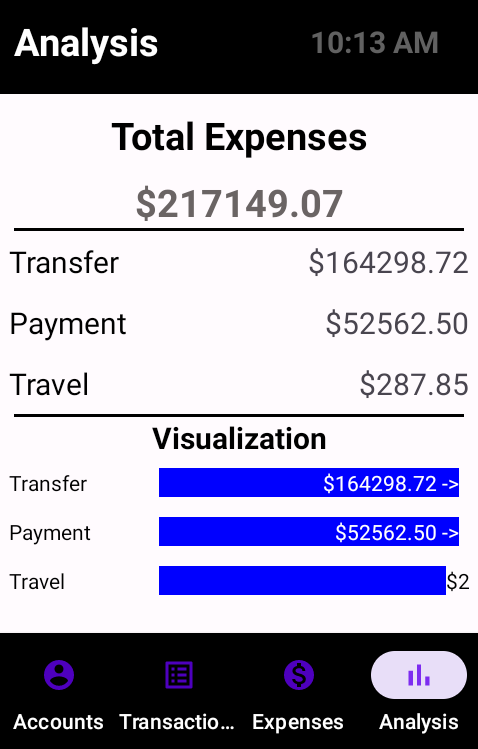
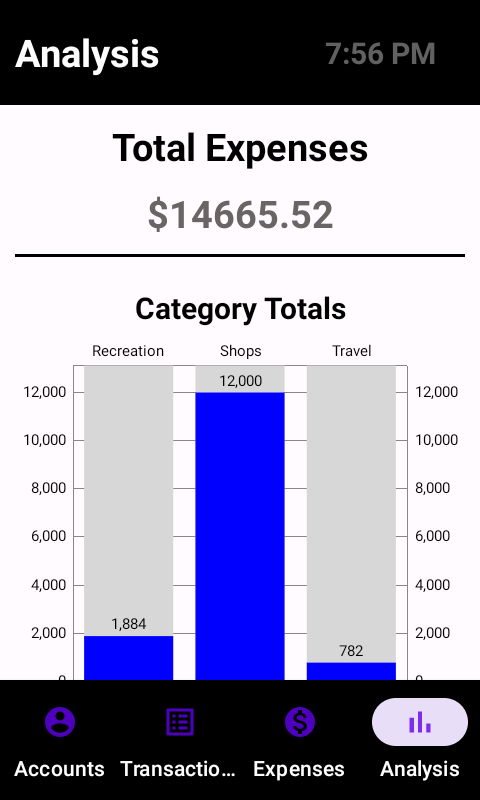
decided to use a graphing utility: MPAndroidChart. Made a new SQL query to be able to poll category totals for a given time frame. Used it with the charting utility to create bar charts for the last 23 months. Updated readme to credit charter and new screenshots.

diff --git a/app/src/main/java/com/example/aem/Analyze/AnalyzeFragment.kt b/app/src/main/java/com/example/aem/Analyze/AnalyzeFragment.kt
@@ -1,41 +1,73 @@
 package com.example.aem.Analyze
 
-import android.app.ActionBar
-import android.graphics.Color
 import android.os.Bundle
 import android.view.LayoutInflater
 import android.view.View
 import android.view.ViewGroup
 import android.widget.LinearLayout
 import android.widget.TextView
-import androidx.appcompat.widget.LinearLayoutCompat
 import androidx.fragment.app.Fragment
-import androidx.lifecycle.ViewModelProvider
 import com.example.aem.Expense.ExpenseViewModel
 import com.example.aem.R
 import com.example.aem.Transactions.TransactionEntity
 import com.example.aem.Transactions.TransactionViewModel
+import java.time.LocalDateTime
+import java.time.format.DateTimeFormatter
 
 class AnalyzeFragment(private val expenseVM: ExpenseViewModel, private val transVM : TransactionViewModel) : Fragment() {
     override fun onCreateView(inflater: LayoutInflater, container: ViewGroup?, savedInstanceState: Bundle?): View? {
         super.onCreate(savedInstanceState)
         val layoutView = inflater.inflate(R.layout.analyze_fragment,container,false)
-        //
-        val allExpenses = expenseVM.allExpenses
+        val allExpenses = expenseVM.allExpensesAsTransactions
         if(allExpenses.isNotEmpty()) {
-            val transactions = arrayListOf<TransactionEntity>()
-            for(expense in allExpenses) {
-                transactions.add(transVM.getbyTransactionId(expense.tranId.toString()))
-            }
-            //
-            val totalsComponent = TotalsComponent(layoutView)
-            val map = totalsComponent.createMapping(transactions)
-            totalsComponent.applyViewsToLayout()
-            //
-            val barGraphLayout = layoutView.findViewById<LinearLayout>(R.id.bargraph_linearlayout)
-            val barChart = BarChart(map,layoutView.context,resources.displayMetrics.widthPixels)
-            barGraphLayout.addView(barChart.createGraph())
+            displayTotalTextView(layoutView,allExpenses)
+            displayCategoryTotalChart(layoutView)
+            displayMonthlyCharts(layoutView)
         }
         return layoutView
+    }
+
+    private fun displayTotalTextView(layoutView: View,allExpenses:List<TransactionEntity>) {
+        val totalTextView = layoutView.findViewById<TextView>(R.id.total_expense_textview)
+        val totText = "$${"%.2f".format(TotalsComponent().getTotal(allExpenses))}"
+        totalTextView.text = totText
+    }
+
+    private fun displayCategoryTotalChart(layoutView: View) {
+        val categoryTotal = transVM.entireListCategoryTotals
+        val values = arrayListOf<Float>()
+        val labels = arrayListOf<String>()
+        for(category in categoryTotal) {
+            values.add(category.amount.toFloat())
+            labels.add(category.category.substringBefore(" "))
+        }
+        MakeBarChart(layoutView,R.id.chart1,values,labels,"Category Total",-1,"")
+    }
+
+    private fun displayMonthlyCharts(layoutView: View) {
+        val monthlyLayout = layoutView.findViewById<LinearLayout>(R.id.monthly_charts)
+        monthlyLayout.isScrollContainer = true
+        val formatter = DateTimeFormatter.ofPattern("yyyy-MM-dd")
+        for(i in 0..23) {
+            val current = LocalDateTime.now().minusMonths(i.toLong())
+            val currentMinusThirty = current.minusDays(30)
+            // relevant strings for bar chart setup
+            val currentMonth = current.month.toString()
+            val currentYear = current.year
+            val barTitle = "$currentMonth $currentYear"
+            // parameters for sql query
+            val end = current.format(formatter)
+            val start = currentMinusThirty.format(formatter)
+            // FORMAT: YYYY-MM-DD
+            val categories = transVM.getCategoryTotalsInTimeFrame(start,end)
+            //
+            val values = arrayListOf<Float>()
+            val labels = arrayListOf<String>()
+            for(cat in categories) {
+                values.add(cat.amount.toFloat())
+                labels.add(cat.category)
+            }
+            MakeBarChart(monthlyLayout,-1,values,labels,"Category Total",resources.displayMetrics.widthPixels,barTitle)
+        }
     }
 }

diff --git a/app/src/main/java/com/example/aem/Analyze/MakeBarChart.kt b/app/src/main/java/com/example/aem/Analyze/MakeBarChart.kt
@@ -1,0 +1,102 @@
+package com.example.aem.Analyze
+
+import android.graphics.Color
+import android.view.View
+import android.widget.LinearLayout
+import android.widget.TextView
+import com.example.aem.R
+import com.github.mikephil.charting.charts.BarChart
+import com.github.mikephil.charting.components.Legend
+import com.github.mikephil.charting.data.BarData
+import com.github.mikephil.charting.data.BarDataSet
+import com.github.mikephil.charting.data.BarEntry
+import com.github.mikephil.charting.formatter.IndexAxisValueFormatter
+
+class MakeBarChart(
+    private val layoutView: View,
+    private val chartId: Int,
+    private val values: List<Float>,
+    private val labels: List<String>,
+    private val legendLabel: String,
+    private val width: Int,
+    private val chartTitle: String
+) {
+    private var barChart: BarChart = if (chartId == -1) {
+        BarChart(layoutView.context)
+    } else {
+        layoutView.findViewById(chartId)
+    }
+    private var legend = barChart.legend
+
+    init {
+        configureBarChart()
+        configureLegend()
+        applyData()
+    }
+
+    private fun configureBarChart() {
+        barChart.setDrawBarShadow(true)
+        barChart.setDrawValueAboveBar(true)
+        barChart.description.isEnabled = false
+        barChart.setMaxVisibleValueCount(60)
+        barChart.setPinchZoom(false)
+        barChart.setDrawGridBackground(false)
+    }
+
+    private fun configureLegend() {
+        legend.verticalAlignment = Legend.LegendVerticalAlignment.BOTTOM
+        legend.horizontalAlignment = Legend.LegendHorizontalAlignment.LEFT
+        legend.orientation = Legend.LegendOrientation.HORIZONTAL
+        legend.setDrawInside(false)
+        legend.form = Legend.LegendForm.SQUARE
+        legend.formSize = 9f
+        legend.textSize = 11f
+        legend.xEntrySpace = 4f
+    }
+
+    private fun applyData() {
+        val barEntries = arrayListOf<BarEntry>()
+        var i = 0f
+        for (v in values) {
+            barEntries.add(BarEntry(i, v))
+            i++
+        }
+        //
+        val barDataSet = BarDataSet(barEntries, legendLabel)
+        barDataSet.color = Color.BLUE
+        barDataSet.setDrawIcons(false)
+        val barData = BarData(barDataSet)
+        barData.setValueTextSize(10f)
+        barData.barWidth = 0.8f
+        //
+        barChart.xAxis.labelCount = labels.size
+        barChart.xAxis.valueFormatter = IndexAxisValueFormatter(labels)
+        barChart.data = barData
+        if (chartId == -1) {
+            val linView = LinearLayout(layoutView.context)
+            linView.orientation = LinearLayout.VERTICAL
+            linView.layoutParams = LinearLayout.LayoutParams(
+                width,
+                LinearLayout.LayoutParams.MATCH_PARENT
+            )
+            //
+            barChart.layoutParams = LinearLayout.LayoutParams(
+                width,
+                LinearLayout.LayoutParams.MATCH_PARENT
+            )
+            //
+            val title = TextView(layoutView.context)
+            title.layoutParams = LinearLayout.LayoutParams(
+                LinearLayout.LayoutParams.MATCH_PARENT,
+                LinearLayout.LayoutParams.WRAP_CONTENT
+            )
+            title.textAlignment = TextView.TEXT_ALIGNMENT_CENTER
+            title.text = chartTitle
+            //
+            linView.addView(title)
+            linView.addView(barChart)
+            val lin = (layoutView as LinearLayout)
+            lin.addView(linView)
+        }
+    }
+}

diff --git a/app/src/main/java/com/example/aem/Analyze/TotalsComponent.kt b/app/src/main/java/com/example/aem/Analyze/TotalsComponent.kt
@@ -8,57 +8,12 @@ import androidx.appcompat.widget.LinearLayoutCompat
 import com.example.aem.R
 import com.example.aem.Transactions.TransactionEntity
 
-class TotalsComponent(private val layoutView : View) {
-    private var totalsMapping = mutableMapOf<String,Double>()
-    private var total = 0.0
-
-    fun createMapping(list : List<TransactionEntity>) : Map<String,Double> {
+class TotalsComponent() {
+    fun getTotal(list : List<TransactionEntity>) : Double {
+        var total = 0.0
         for(transaction  in list) {
             total += transaction.amount
-            if(totalsMapping.containsKey(transaction.category)){
-                totalsMapping[transaction.category!!] = transaction.amount + totalsMapping[transaction.category!!]!!
-            } else {
-                totalsMapping[transaction.category!!] = transaction.amount
-            }
         }
-        return totalsMapping
-    }
-
-    fun applyViewsToLayout() {
-        val totalTextView = layoutView.findViewById<TextView>(R.id.total_expense_textview)
-        val totText = "$${"%.2f".format(total)}"
-        totalTextView.text = totText
-        //
-        val categoryTotalLayout = layoutView.findViewById<LinearLayout>(R.id.category_totals_linearlayout)
-        for(key in totalsMapping.keys) {
-            val linearLayout = LinearLayout(layoutView.context)
-            linearLayout.orientation = LinearLayout.HORIZONTAL
-            val params = LinearLayout.LayoutParams(
-                LinearLayoutCompat.LayoutParams.MATCH_PARENT,
-                LinearLayoutCompat.LayoutParams.WRAP_CONTENT
-            )
-            params.setMargins(10,10,10,10)
-            linearLayout.layoutParams = params
-            //
-            val textViewLayoutParams = LinearLayout.LayoutParams(
-                0,
-                LinearLayoutCompat.LayoutParams.WRAP_CONTENT
-            )
-            textViewLayoutParams.weight = 0.5f
-            val categoryTextView = TextView(layoutView.context)
-            categoryTextView.setTextColor(Color.BLACK)
-            categoryTextView.text = key
-            categoryTextView.textSize = 20f
-            categoryTextView.layoutParams = textViewLayoutParams
-            val amountTextView = TextView(layoutView.context)
-            val amount = "$" + "%.2f".format(totalsMapping[key])
-            amountTextView.text = amount
-            amountTextView.textSize = 20f
-            amountTextView.layoutParams = textViewLayoutParams
-            amountTextView.textAlignment = View.TEXT_ALIGNMENT_TEXT_END
-            linearLayout.addView(categoryTextView)
-            linearLayout.addView(amountTextView)
-            categoryTotalLayout.addView(linearLayout)
-        }
+        return total
     }
 }

diff --git a/app/src/main/java/com/example/aem/Transactions/TransactionsDao.kt b/app/src/main/java/com/example/aem/Transactions/TransactionsDao.kt
@@ -19,9 +19,12 @@ interface TransactionsDao {
     @Query("SELECT category,SUM(amount) as 'amount' FROM transactions_table_aem WHERE item_id = :item_id GROUP BY category")
     fun getCategoryTotals(item_id: String) : List<CategoryTotal>
 
-    @Query("SELECT category,0 as 'amount' FROM transactions_table_aem INNER JOIN expense_table ON transactions_table_aem.tranId = expense_table.tranId GROUP BY category")
+    @Query("SELECT category,SUM(amount) as 'amount' FROM transactions_table_aem INNER JOIN expense_table ON transactions_table_aem.tranId = expense_table.tranId GROUP BY category")
     fun getEntireCategoryTotals() : List<CategoryTotal>
 
     @Query("SELECT * FROM transactions_table_aem WHERE (item_id = :item_id) AND (category = :category)")
     fun getTransactionsBasedOnCategoryAndItemId(item_id: String, category: String) : List<TransactionEntity>
+
+    @Query("SELECT  category, SUM(amount) as 'amount' FROM transactions_table_aem INNER JOIN expense_table ON transactions_table_aem.tranId = expense_table.tranId WHERE (date <= :end) AND (date >= :start) GROUP BY category")
+    fun getCategoryTotalsInATimeFrame(start : String, end : String) : List<CategoryTotal>
 }

diff --git a/app/src/main/java/com/example/aem/Transactions/TransactionViewModel.java b/app/src/main/java/com/example/aem/Transactions/TransactionViewModel.java
@@ -90,4 +90,15 @@ public class TransactionViewModel extends AndroidViewModel {
         }
         return b;
     }
+
+    public ArrayList<CategoryTotal> getCategoryTotalsInTimeFrame(String start, String end) {
+        Future<List<CategoryTotal>> f = executorService.submit(() -> transactionsDao.getCategoryTotalsInATimeFrame(start,end));
+        ArrayList<CategoryTotal> b = new ArrayList<>();
+        try {
+            b.addAll(f.get(200, TimeUnit.MILLISECONDS));
+        } catch (Exception e) {
+            e.printStackTrace();
+        }
+        return b;
+    }
 }
